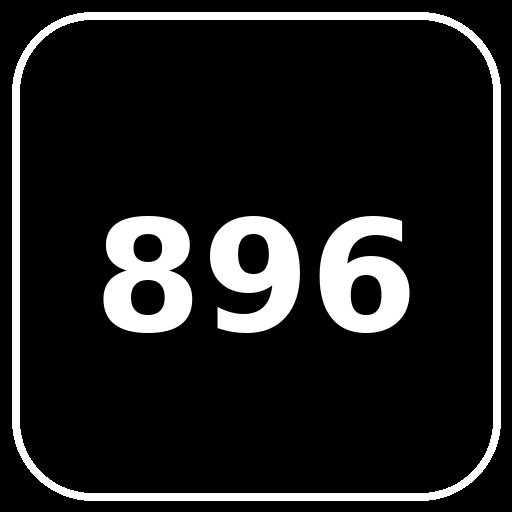
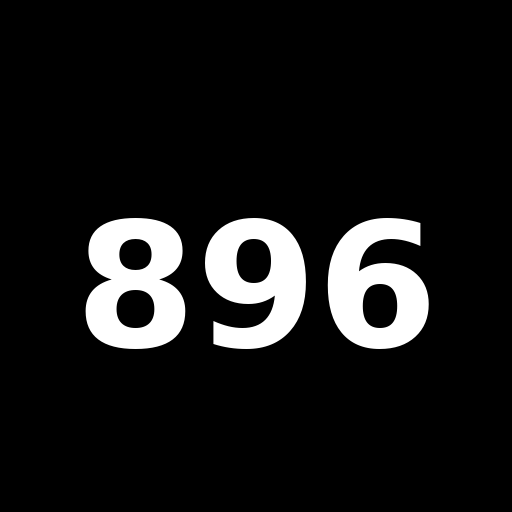
Add files via upload

Changed region(s): [[0.0, 0.0, 1.0, 1.0], [0.1562, 0.4062, 0.8438, 0.6875]]

diff --git a/index.html b/index.html
@@ -4,8 +4,6 @@
 <meta charset="UTF-8">
 <meta name="viewport" content="width=device-width, initial-scale=1, viewport-fit=cover">
 <meta name="theme-color" content="#000000">
-<link rel="manifest" href="manifest.json">
-<link rel="apple-touch-icon" href="icon-512.png">
 <title>896 FIT V7</title>
 <style>
 :root{--bg:#000;--card:#111;--card2:#1a1a1a;--text:#fff;--muted:#929292;--line:#2b2b2b;--danger:#5b1b1b}
@@ -36,6 +34,22 @@ input,select{width:100%;background:#1b1b1b;color:#fff;border:1px solid #303030;b
 .timer{font-size:45px;font-weight:900;text-align:center;margin:14px 0}
 hr{border:0;border-top:1px solid #292929;margin:18px 0}
 @media(max-width:620px){.dashboard{grid-template-columns:1fr 1fr 1fr}.ring{grid-column:1/-1}.grid2{grid-template-columns:1fr 1fr}.nav button{font-size:10px}}
+
+.motivation-card{background:#111;border:1px solid #292929;border-radius:26px;padding:20px;margin-bottom:16px}
+.motivation-big{font-size:25px;font-weight:900;line-height:1.2}
+.badges{display:grid;grid-template-columns:repeat(2,1fr);gap:10px}
+.badge-card{background:#191919;border:1px solid #292929;border-radius:18px;padding:14px}
+.badge-card.locked{opacity:.4}
+.score{font-size:52px;font-weight:900}
+.streak{font-size:34px;font-weight:900}
+
+
+.rank-item{padding:14px;border:1px solid #292929;border-radius:16px;background:#191919;margin:8px 0}
+.rank-item.current{border-color:#fff}
+.day-plan{display:grid;grid-template-columns:90px 1fr auto;gap:8px;align-items:center;padding:12px 0;border-bottom:1px solid #292929}
+.day-plan:last-child{border-bottom:0}
+.day-plan select{padding:10px;margin:0}
+
 </style>
 </head>
 <body>
@@ -94,6 +108,27 @@ hr{border:0;border-top:1px solid #292929;margin:18px 0}
 <div class="card"><h2>💾 Veriler</h2><p class="muted">Veriler otomatik olarak bu cihazda tutulur.</p><button class="btn dark full" onclick="backup()">Verilerimi Yedekle</button><button class="btn dark full" style="margin-top:10px" onclick="document.getElementById('restoreInput').click()">Yedekten Geri Yükle</button><input id="restoreInput" type="file" accept=".json" hidden onchange="restore(event)"><button class="btn danger full" style="margin-top:10px" onclick="wipe()">Tüm Verileri Sil</button></div>
 <div class="card"><h2>🔐 Gizlilik</h2><p class="muted">Bu kişisel sürümde kayıtlar cihazında saklanır. Hesap veya sunucu gerekmez.</p></div>
 </section>
+
+<section id="motivation" class="page">
+<div class="title">🦁 896 MOTİVASYON</div>
+<div class="motivation-card">
+  <div class="muted small">BUGÜNÜN MESAJI</div>
+  <div class="motivation-big" id="motivationText" style="margin-top:8px">896 seni bekliyor 😎</div>
+  <button class="btn full" style="margin-top:14px" onclick="newMotivation()">Başka bir tane söyle 😂</button>
+</div>
+<div class="motivation-card">
+  <div class="row"><div><div class="muted small">896 PUANI</div><div class="score" id="score">0</div></div><div style="text-align:right"><div class="muted small">SERİ</div><div class="streak" id="streak">0 🔥</div></div></div>
+</div>
+<div class="motivation-card">
+  <h2>🏆 Rozetler</h2>
+  <div class="badges" id="badges"></div>
+</div>
+<div class="motivation-card">
+  <h2>📊 Haftalık Özet</h2>
+  <div id="weeklySummary" class="muted"></div>
+</div>
+</section>
+
 </div>
 
 <nav class="bottom"><div class="nav">
@@ -153,6 +188,162 @@ function backup(){let blob=new Blob([JSON.stringify({app:"896 FIT",version:"V7",
 function restore(e){let f=e.target.files[0];if(!f)return;let r=new FileReader();r.onload=()=>{try{let b=JSON.parse(r.result);if(!b.data)throw 0;if(confirm("Mevcut veriler yedekle değiştirilsin mi?")){data=b.data;save();location.reload()}}catch(x){alert("Geçersiz yedek dosyası.")}};r.readAsText(f)}
 function wipe(){if(confirm("Tüm veriler silinsin mi?")&&confirm("Bu işlem geri alınamaz. Emin misin?")){localStorage.removeItem(KEY);location.reload()}}
 renderHome();renderFoods();renderHistory();renderCalendar();renderEquipment();renderPrograms();renderExercises();renderProgress();renderSettings();updateFast();
+
+const MOTIVATIONS=[
+"😎 Bugün iyi iş çıkarıyoruz aslan parçası.",
+"🦁 896 burada. Bahane yok, küçük bir adım yeter.",
+"💪 Bir set daha. Kaçış yok 😂",
+"🔥 Bugün dünden biraz daha iyiyiz.",
+"👀 896 seni görüyor. Hadi başlayalım.",
+"😂 Dumbbelllar seni sordu, haberin olsun.",
+"🏆 Küçük ilerleme de ilerlemedir.",
+"😤 Son seti de bitiriyoruz.",
+"🧠 Mükemmel olmak gerekmiyor, devam etmek gerekiyor.",
+"🚀 Bugünün görevi: başladığın işi tamamlamak."
+];
+const BADGES=[
+["🥉 İlk Adım","İlk yemek veya antrenman kaydı",1],
+["💪 İlk Antrenman","İlk antrenmanını tamamla",2],
+["🔥 3 Gün Seri","3 gün takip et",3],
+["🔥 7 Gün Seri","7 gün takip et",7],
+["🏋 10 Antrenman","10 antrenman tamamla",10],
+["🍽 50 Yemek","50 yemek kaydı oluştur",50],
+["🦁 30 Gün","30 gün takip et",30]
+];
+function newMotivation(){
+  document.getElementById("motivationText").textContent=
+    MOTIVATIONS[Math.floor(Math.random()*MOTIVATIONS.length)];
+}
+function motivationScore(){
+  const k=key(), meals=data.meals.filter(x=>x.date===k);
+  const workouts=data.workouts.filter(x=>x.date===k);
+  const water=Number(data.water[k]||0);
+  let score=0;
+  if(meals.length)score+=30;
+  if(workouts.length)score+=40;
+  if(data.goals.water>0)score+=Math.min(20,water/data.goals.water*20);
+  if(meals.length||workouts.length)score+=10;
+  return Math.round(score);
+}
+function calcStreak(){
+  const active=new Set([...data.meals.map(x=>x.date),...data.workouts.map(x=>x.date)]);
+  let d=new Date(),s=0;
+  while(active.has(key(d))){s++;d.setDate(d.getDate()-1)}
+  return s;
+}
+function renderMotivation(){
+  document.getElementById("score").textContent=motivationScore();
+  document.getElementById("streak").textContent=calcStreak()+" 🔥";
+  const count=data.workouts.length, mealCount=data.meals.length;
+  const earned=[mealCount>=1,count>=1,calcStreak()>=3,calcStreak()>=7,count>=10,mealCount>=50,calcStreak()>=30];
+  document.getElementById("badges").innerHTML=BADGES.map((b,i)=>
+    `<div class="badge-card ${earned[i]?"":"locked"}"><b>${b[0]}</b><div class="small muted" style="margin-top:5px">${b[1]}</div></div>`
+  ).join("");
+  let now=new Date(), totalCal=0,totalBurn=0,days=0;
+  for(let i=0;i<7;i++){let d=new Date(now);d.setDate(now.getDate()-i);let k=key(d);let ms=data.meals.filter(x=>x.date===k);let ws=data.workouts.filter(x=>x.date===k);if(ms.length||ws.length)days++;totalCal+=ms.reduce((a,x)=>a+x.cal,0);totalBurn+=ws.reduce((a,x)=>a+x.cal,0)}
+  document.getElementById("weeklySummary").innerHTML=`Son 7 gün: <b>${Math.round(totalCal)} kcal</b> alındı · <b>${Math.round(totalBurn)} kcal</b> egzersizle yakıldı · <b>${days}/7</b> gün kayıt var.<br><br>🦁 ${days>=5?"Bu hafta iyi gidiyorsun aslan parçası!":"Daha birkaç gün var, geri dönüyoruz 😅"}`;
+}
+
+
+/* ===== 896 V11 RÜTBE / PROGRAM SİSTEMİ ===== */
+data.stats = data.stats || {steps:0, sets:0, reps:0, exercises:0, burn:0, minutes:0};
+data.weekPlan = data.weekPlan || {
+  "1":"Üst Vücut",
+  "2":"Karın + Alt Vücut",
+  "3":"Dinlenme",
+  "4":"Göğüs + Omuz",
+  "5":"Sırt + Kol",
+  "6":"Full Body + Yürüyüş",
+  "0":"Dinlenme"
+};
+
+const RANKS=[
+  {days:10,name:"🥉 Başlangıç"},
+  {days:20,name:"🥈 Düzenli"},
+  {days:30,name:"🥇 Disiplinli"},
+  {days:50,name:"💪 Savaşçı"},
+  {days:75,name:"🔥 İleri Seviye"},
+  {days:100,name:"🦁 896 Aslanı"},
+  {days:180,name:"👑 Usta"},
+  {days:365,name:"🏆 896 Efsanesi"}
+];
+
+function plannedDays(){
+  const set=new Set();
+  // Workout records count as active days.
+  (data.workouts||[]).forEach(w=>{if(w.date)set.add(w.date)});
+  // Also count manually recorded meals only if an explicit workout exists; meals alone don't advance the training rank.
+  return set;
+}
+function activeStreak(){
+  const active=plannedDays();
+  let d=new Date(), count=0;
+  for(let i=0;i<1000;i++){
+    const dow=String(d.getDay());
+    const plan=data.weekPlan[dow]||"Dinlenme";
+    if(plan==="Dinlenme"||plan==="İzin") {
+      d.setDate(d.getDate()-1);
+      continue;
+    }
+    if(active.has(key(d))) count++;
+    else break;
+    d.setDate(d.getDate()-1);
+  }
+  return count;
+}
+function currentRank(){
+  const days=Array.from(plannedDays()).length;
+  let r={days:0,name:"🏃 Yeni Başlangıç"};
+  RANKS.forEach(x=>{if(days>=x.days)r=x});
+  return {rank:r,days};
+}
+function renderRank(){
+  const cr=currentRank(), next=RANKS.find(x=>x.days>cr.days);
+  document.getElementById("rankName").textContent=cr.rank.name;
+  document.getElementById("rankProgressText").textContent=next
+    ? `${cr.days} / ${next.days} aktif gün · sonraki rütbe: ${next.name}`
+    : `${cr.days} aktif gün · zirvedesin 🏆`;
+  const start=next ? (RANKS[RANKS.indexOf(next)-1]?.days||0) : 365;
+  const pct=next ? Math.min(100,((cr.days-start)/(next.days-start))*100) : 100;
+  document.getElementById("rankFill").style.width=pct+"%";
+
+  const s=data.stats||{};
+  document.getElementById("statSteps").textContent=(s.steps||0).toLocaleString("tr-TR");
+  document.getElementById("statSets").textContent=(s.sets||0).toLocaleString("tr-TR");
+  document.getElementById("statReps").textContent=(s.reps||0).toLocaleString("tr-TR");
+  document.getElementById("statExercises").textContent=(s.exercises||0).toLocaleString("tr-TR");
+  document.getElementById("statBurn").textContent=Math.round(s.burn||0).toLocaleString("tr-TR");
+  document.getElementById("statMinutes").textContent=Math.round(s.minutes||0)+" dk";
+  const totalWater=Object.values(data.water||{}).reduce((a,b)=>a+Number(b||0),0);
+  document.getElementById("statWater").textContent=totalWater.toFixed(1)+" L";
+
+  document.getElementById("rankList").innerHTML=RANKS.map(x=>{
+    const done=cr.days>=x.days;
+    return `<div class="rank-item ${cr.rank.days===x.days?'current':''}">
+      <div class="row"><strong>${x.name}</strong><span>${x.days} aktif gün</span></div>
+      <div class="small muted" style="margin-top:5px">${done?"✅ Açıldı":"🔒 Henüz açılmadı"}</div>
+    </div>`;
+  }).join("");
+
+  const names=["Pazartesi","Salı","Çarşamba","Perşembe","Cuma","Cumartesi","Pazar"];
+  const keys=[1,2,3,4,5,6,0];
+  document.getElementById("weeklyPlan").innerHTML=keys.map((k,i)=>{
+    const val=data.weekPlan[String(k)]||"Dinlenme";
+    return `<div class="day-plan">
+      <strong>${names[i]}</strong>
+      <select onchange="setPlanDay('${k}',this.value)">
+        ${["Dinlenme","Üst Vücut","Alt Vücut","Kol","Göğüs","Sırt","Omuz","Karın","Full Body","Full Body + Yürüyüş"].map(o=>`<option ${o===val?"selected":""}>${o}</option>`).join("")}
+      </select>
+      <span class="badge">${val==="Dinlenme"?"🛌":"🔥"}</span>
+    </div>`;
+  }).join("");
+}
+function setPlanDay(day,value){
+  data.weekPlan[String(day)]=value;
+  saveData();
+  renderRank();
+}
+
 </script>
 </body>
 </html>

diff --git a/sw.js b/sw.js
@@ -1,1 +1,1 @@
-const CACHE='fittakip-v1';self.addEventListener('install',e=>e.waitUntil(caches.open(CACHE).then(c=>c.addAll(['./','./index.html','./manifest.json','./icon.svg']))));self.addEventListener('fetch',e=>e.respondWith(caches.match(e.request).then(r=>r||fetch(e.request))));
+const CACHE='896-fit-v8';self.addEventListener('install',e=>e.waitUntil(caches.open(CACHE).then(c=>c.addAll(['./','./index.html','./manifest.json','./icon-192.png','./icon-512.png']))));self.addEventListener('fetch',e=>e.respondWith(caches.match(e.request).then(r=>r||fetch(e.request))));
